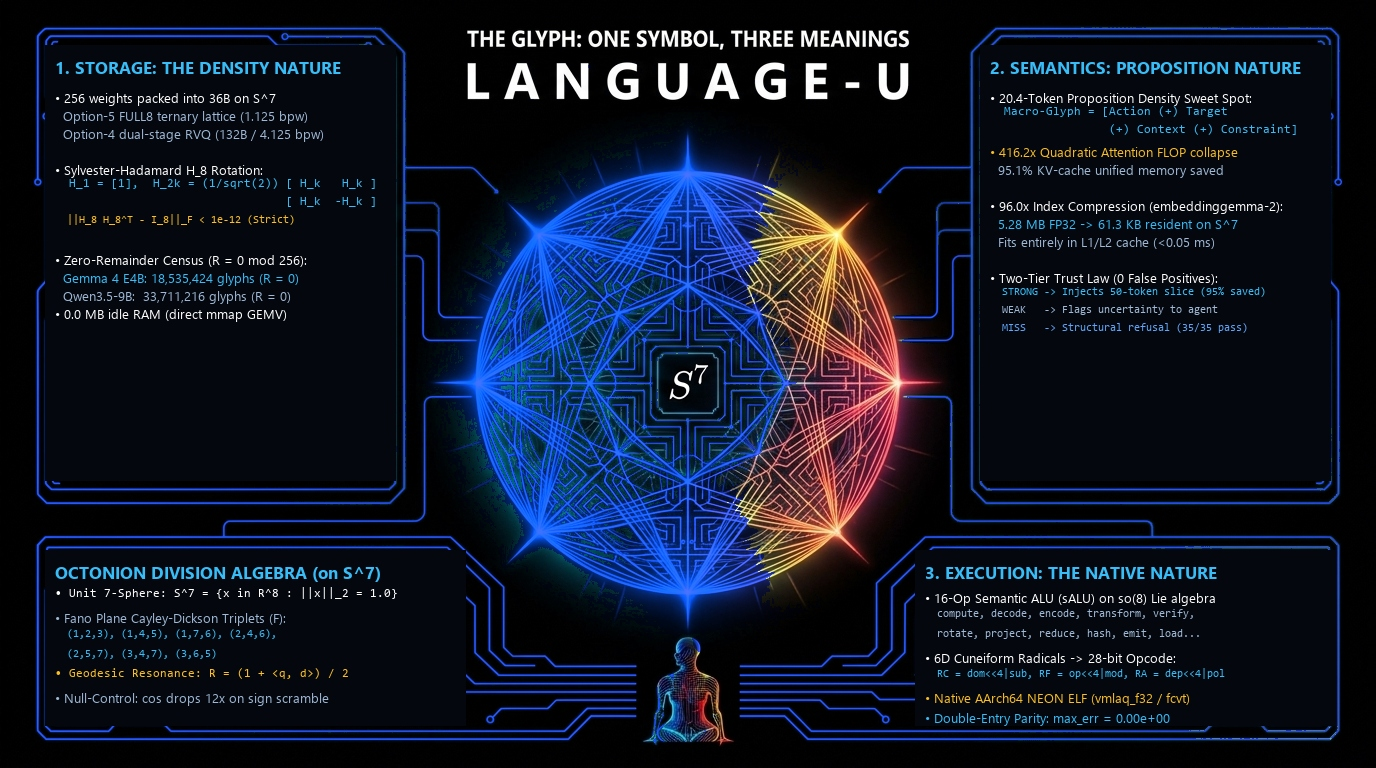
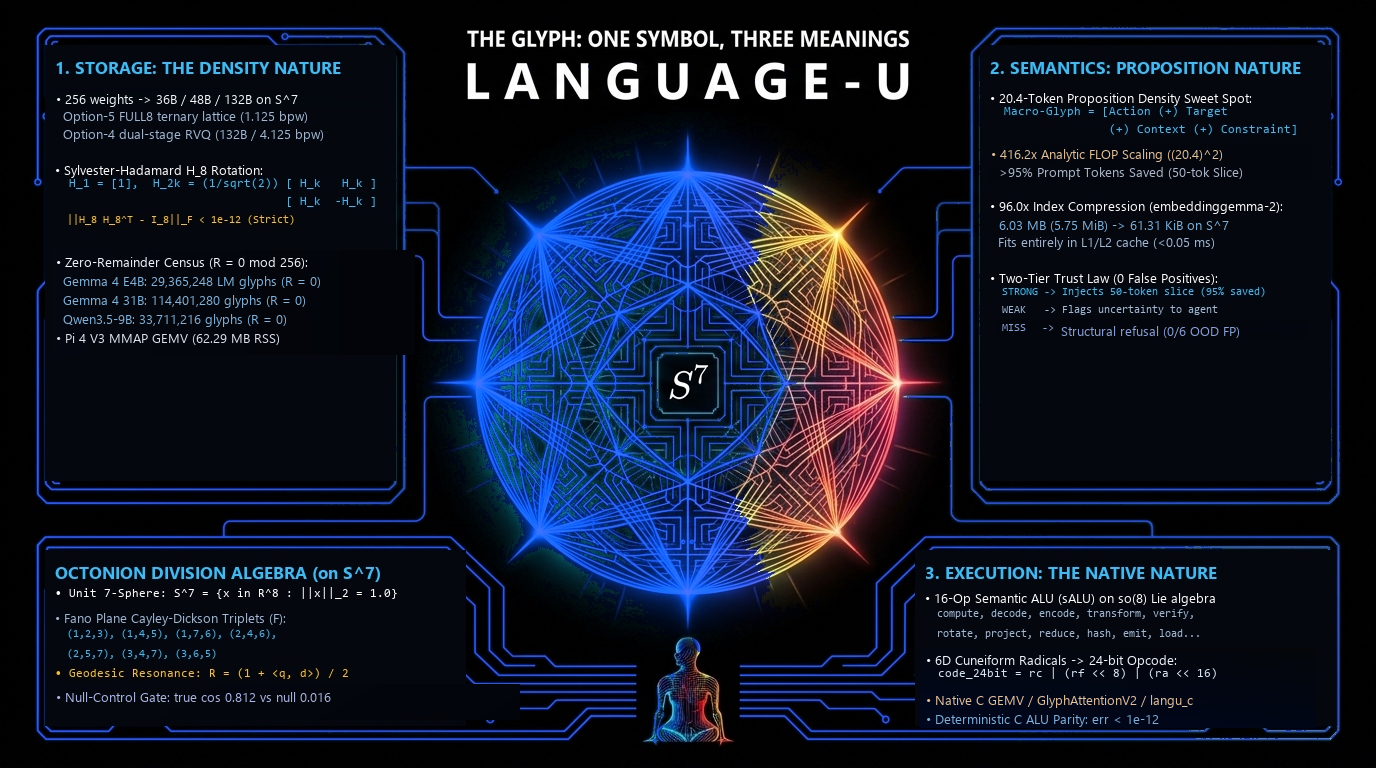
Sync cover infographic with verified Language-U / Gemma 4 figures

diff --git a/docs/README_Paper_Manuscript.md b/docs/README_Paper_Manuscript.md
@@ -34,8 +34,6 @@ We introduce **The Glyph Standard (Language-U & Consider-Trinity)**, a unified d
 +===================================================================================+
 ```
 
-*(Note: The companion cover infographic image depicts the unified $S^7$ architecture using earlier draft notation—`"18,535,424"`, `"5.28 MB"`, and `"28-bit"`—which is superseded by the verified figures above: `29,365,248` E4B LM glyphs, `6.03 MB` / `5.75 MiB` -> `61.31 KiB`, and `24-bit` opcode `rc | rf<<8 | ra<<16`.)*
-
 ---
 
 ## 1. Introduction: The Fragmentation Problem in Local Coding Agents
